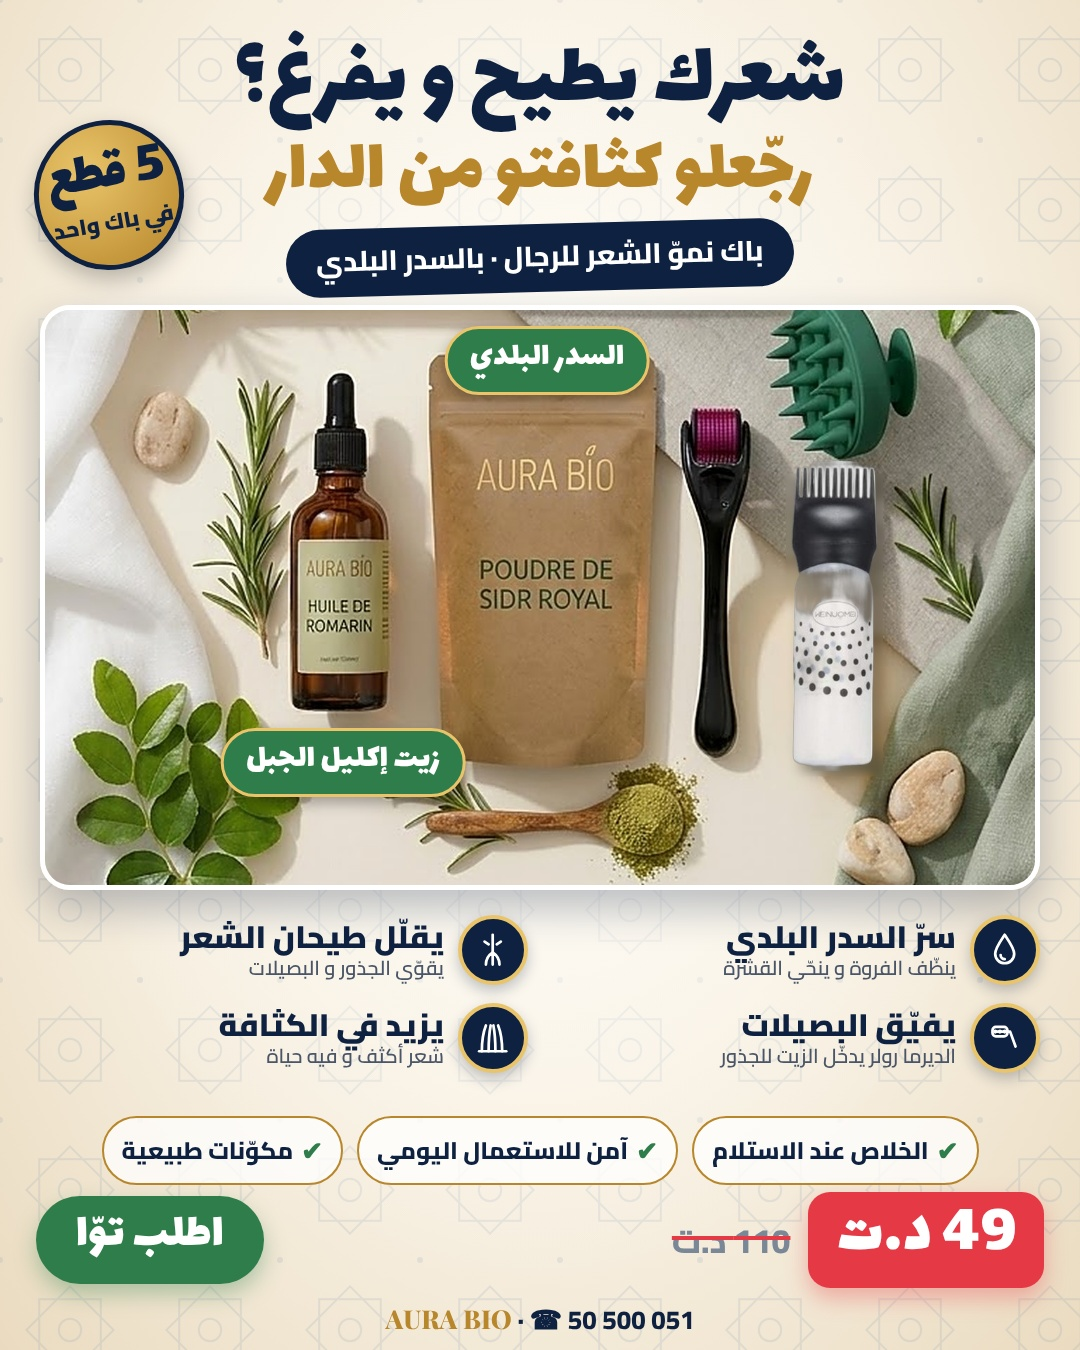
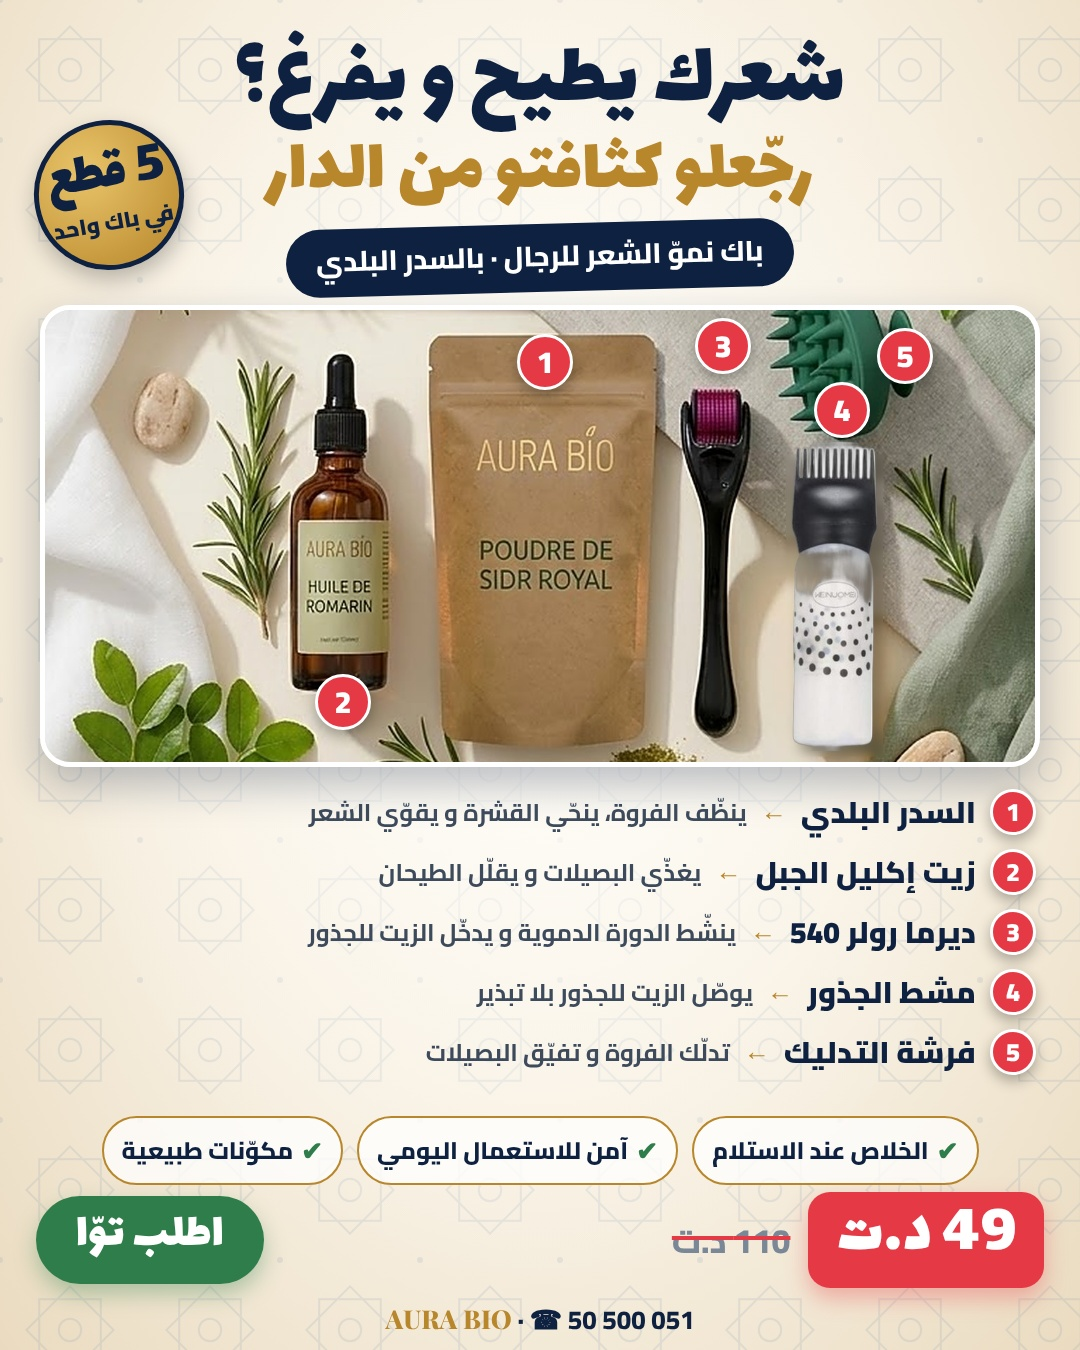
Real-kit static: numbered 5-product list with each product's benefit, matching numbers on the photo
Claude-Session: https://claude.ai/code/session_01FhwxWW9SZQzQKUB1AtjoA4

Changed region(s): [[0.0306, 0.2178, 0.9778, 0.8089], [0.3972, 0.3733, 0.4278, 0.4044]]

diff --git a/src/statics/RealPackAd.tsx b/src/statics/RealPackAd.tsx
@@ -416,39 +416,12 @@ const PriceRow: React.FC = () => (
 
 // ---------- Full 4:5 card (1080×1350) ----------
 // ---------- Flat-lay variant: one big photo of the whole kit ----------
-// Arabic name tag placed on the photo, centred on x
-const PhotoTag: React.FC<{
-  readonly text: string;
-  readonly x: number;
-  readonly y: number;
-}> = ({ text, x, y }) => (
-  <div
-    style={{
-      position: "absolute",
-      left: x,
-      top: y,
-      transform: "translateX(-50%)",
-      background: GREEN,
-      color: colors.white,
-      border: `3px solid ${GOLD_LIGHT}`,
-      borderRadius: 40,
-      padding: "2px 22px 8px",
-      fontFamily: displayFont,
-      fontSize: 34,
-      direction: "rtl",
-      whiteSpace: "nowrap",
-      boxShadow: "0 6px 14px rgba(0,0,0,0.3)",
-    }}
-  >
-    {text}
-  </div>
-);
 const KitPhoto: React.FC = () => (
   <div
     style={{
       position: "relative",
       margin: "0 40px",
-      height: 585,
+      height: 462,
       borderRadius: 30,
       overflow: "hidden",
       border: `5px solid ${colors.white}`,
@@ -457,34 +430,95 @@ const KitPhoto: React.FC = () => (
   >
     <Img
       src={staticFile("products/photo/kit-flatlay.jpg")}
-      style={{ width: "100%", height: "100%", objectFit: "cover" }}
+      style={{
+        width: "100%",
+        height: "100%",
+        objectFit: "cover",
+        objectPosition: "50% 18%",
+      }}
     />
-    <PhotoTag text="زيت إكليل الجبل" x={298} y={418} />
-    <PhotoTag text="السدر البلدي" x={502} y={16} />
+    {KIT_ITEMS.map((k) => (
+      <NumBadge key={k.n} n={k.n} x={k.x} y={k.y} size={56} />
+    ))}
   </div>
 );
 
-const BenefitGrid: React.FC = () => (
+// The 5 pieces: number, name, benefit, and where the number sits on the photo
+const KIT_ITEMS = [
+  { n: 1, name: "السدر البلدي", benefit: "ينظّف الفروة، ينحّي القشرة و يقوّي الشعر", x: 500, y: 52 },
+  { n: 2, name: "زيت إكليل الجبل", benefit: "يغذّي البصيلات و يقلّل الطيحان", x: 298, y: 392 },
+  { n: 3, name: "ديرما رولر 540", benefit: "ينشّط الدورة الدموية و يدخّل الزيت للجذور", x: 678, y: 36 },
+  { n: 4, name: "مشط الجذور", benefit: "يوصّل الزيت للجذور بلا تبذير", x: 797, y: 100 },
+  { n: 5, name: "فرشة التدليك", benefit: "تدلّك الفروة و تفيّق البصيلات", x: 860, y: 46 },
+];
+
+const NumBadge: React.FC<{
+  readonly n: number;
+  readonly x?: number;
+  readonly y?: number;
+  readonly size: number;
+}> = ({ n, x, y, size }) => (
   <div
     style={{
-      margin: "0 40px",
-      display: "grid",
-      gridTemplateColumns: "1fr 1fr",
-      columnGap: 24,
-      rowGap: 18,
+      ...(x !== undefined && y !== undefined
+        ? { position: "absolute" as const, left: x - size / 2, top: y - size / 2 }
+        : {}),
+      width: size,
+      height: size,
+      flexShrink: 0,
+      borderRadius: "50%",
+      background: colors.red,
+      border: `3px solid ${colors.white}`,
+      color: colors.white,
+      display: "flex",
+      alignItems: "center",
+      justifyContent: "center",
+      fontFamily: bodyFont,
+      fontWeight: 900,
+      fontSize: size * 0.55,
+      lineHeight: 1,
+      boxShadow: "0 6px 14px rgba(0,0,0,0.3)",
+    }}
+  >
+    {n}
+  </div>
+);
+
+const KitList: React.FC = () => (
+  <div
+    style={{
+      margin: "0 44px",
+      display: "flex",
+      flexDirection: "column",
+      gap: 4,
       direction: "rtl",
     }}
   >
-    {BENEFITS.slice(0, 4).map((b) => (
-      <div key={b.icon} style={{ display: "flex", alignItems: "center", gap: 14 }}>
-        <Icon name={b.icon} size={70} />
-        <div>
-          <div style={{ fontFamily: bodyFont, fontWeight: 900, fontSize: 31, lineHeight: 1.15, color: NAVY }}>
-            {b.title}
-          </div>
-          <div style={{ fontFamily: bodyFont, fontWeight: 600, fontSize: 20, lineHeight: 1.25, color: "#4A5568" }}>
-            {b.sub}
-          </div>
+    {KIT_ITEMS.map((k) => (
+      <div key={k.n} style={{ display: "flex", alignItems: "center", gap: 14 }}>
+        <NumBadge n={k.n} size={46} />
+        <div
+          style={{
+            fontFamily: bodyFont,
+            fontWeight: 900,
+            fontSize: 30,
+            color: NAVY,
+            whiteSpace: "nowrap",
+          }}
+        >
+          {k.name}
+        </div>
+        <div style={{ color: GOLD, fontSize: 26, fontWeight: 900 }}>←</div>
+        <div
+          style={{
+            fontFamily: bodyFont,
+            fontWeight: 700,
+            fontSize: 24,
+            color: "#3D4A5C",
+            whiteSpace: "nowrap",
+          }}
+        >
+          {k.benefit}
         </div>
       </div>
     ))}
@@ -559,8 +593,8 @@ const Card: React.FC<{ readonly variant: Variant }> = ({ variant }) => (
         <div style={{ position: "absolute", top: 305, left: 0, right: 0 }}>
           <KitPhoto />
         </div>
-        <div style={{ position: "absolute", top: 915, left: 0, right: 0 }}>
-          <BenefitGrid />
+        <div style={{ position: "absolute", top: 784, left: 0, right: 0 }}>
+          <KitList />
         </div>
       </>
     )}
